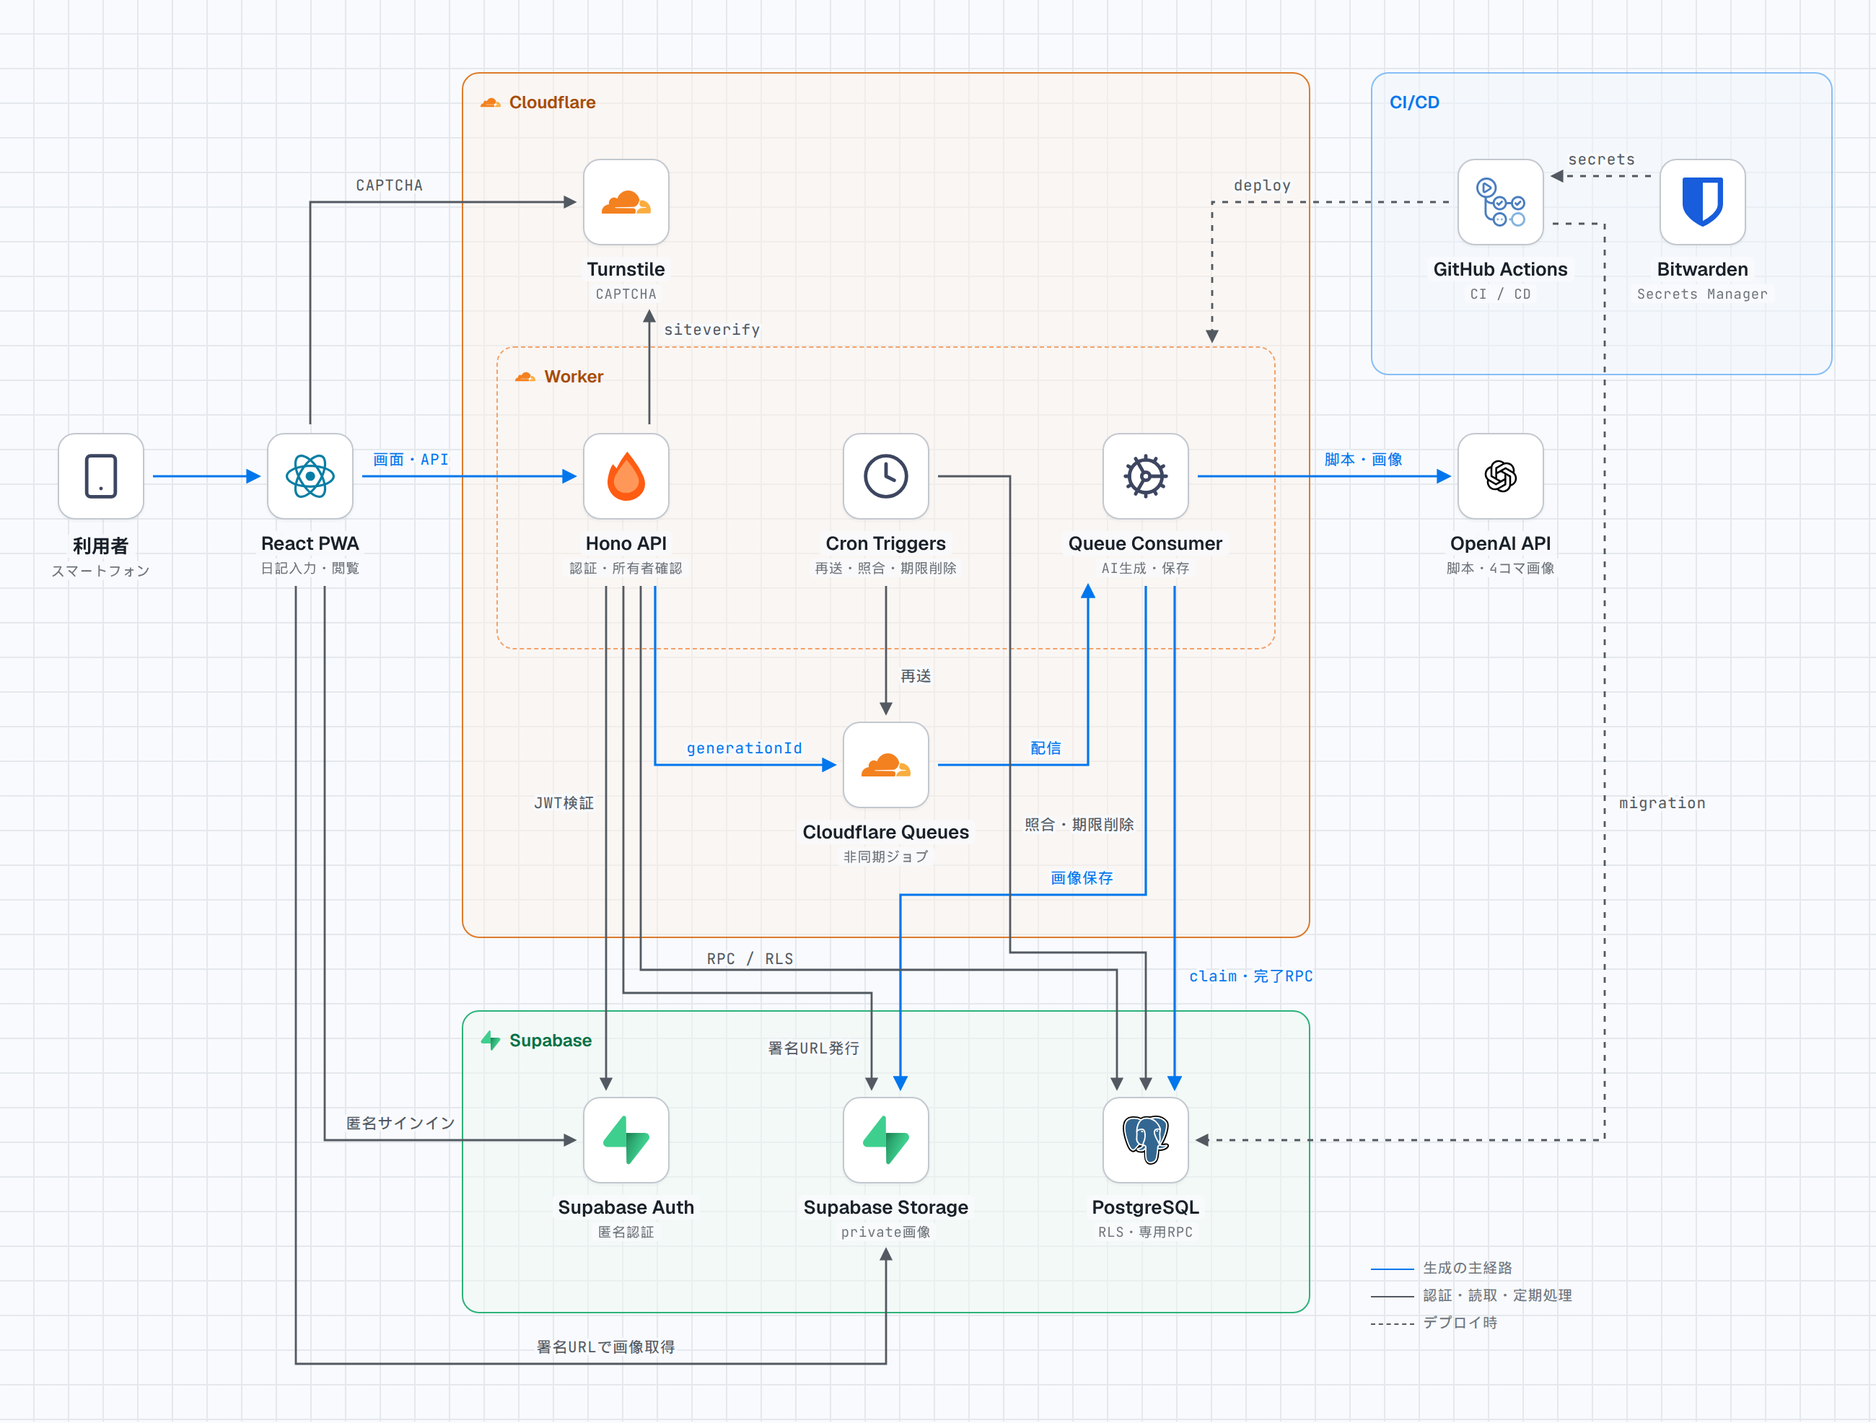
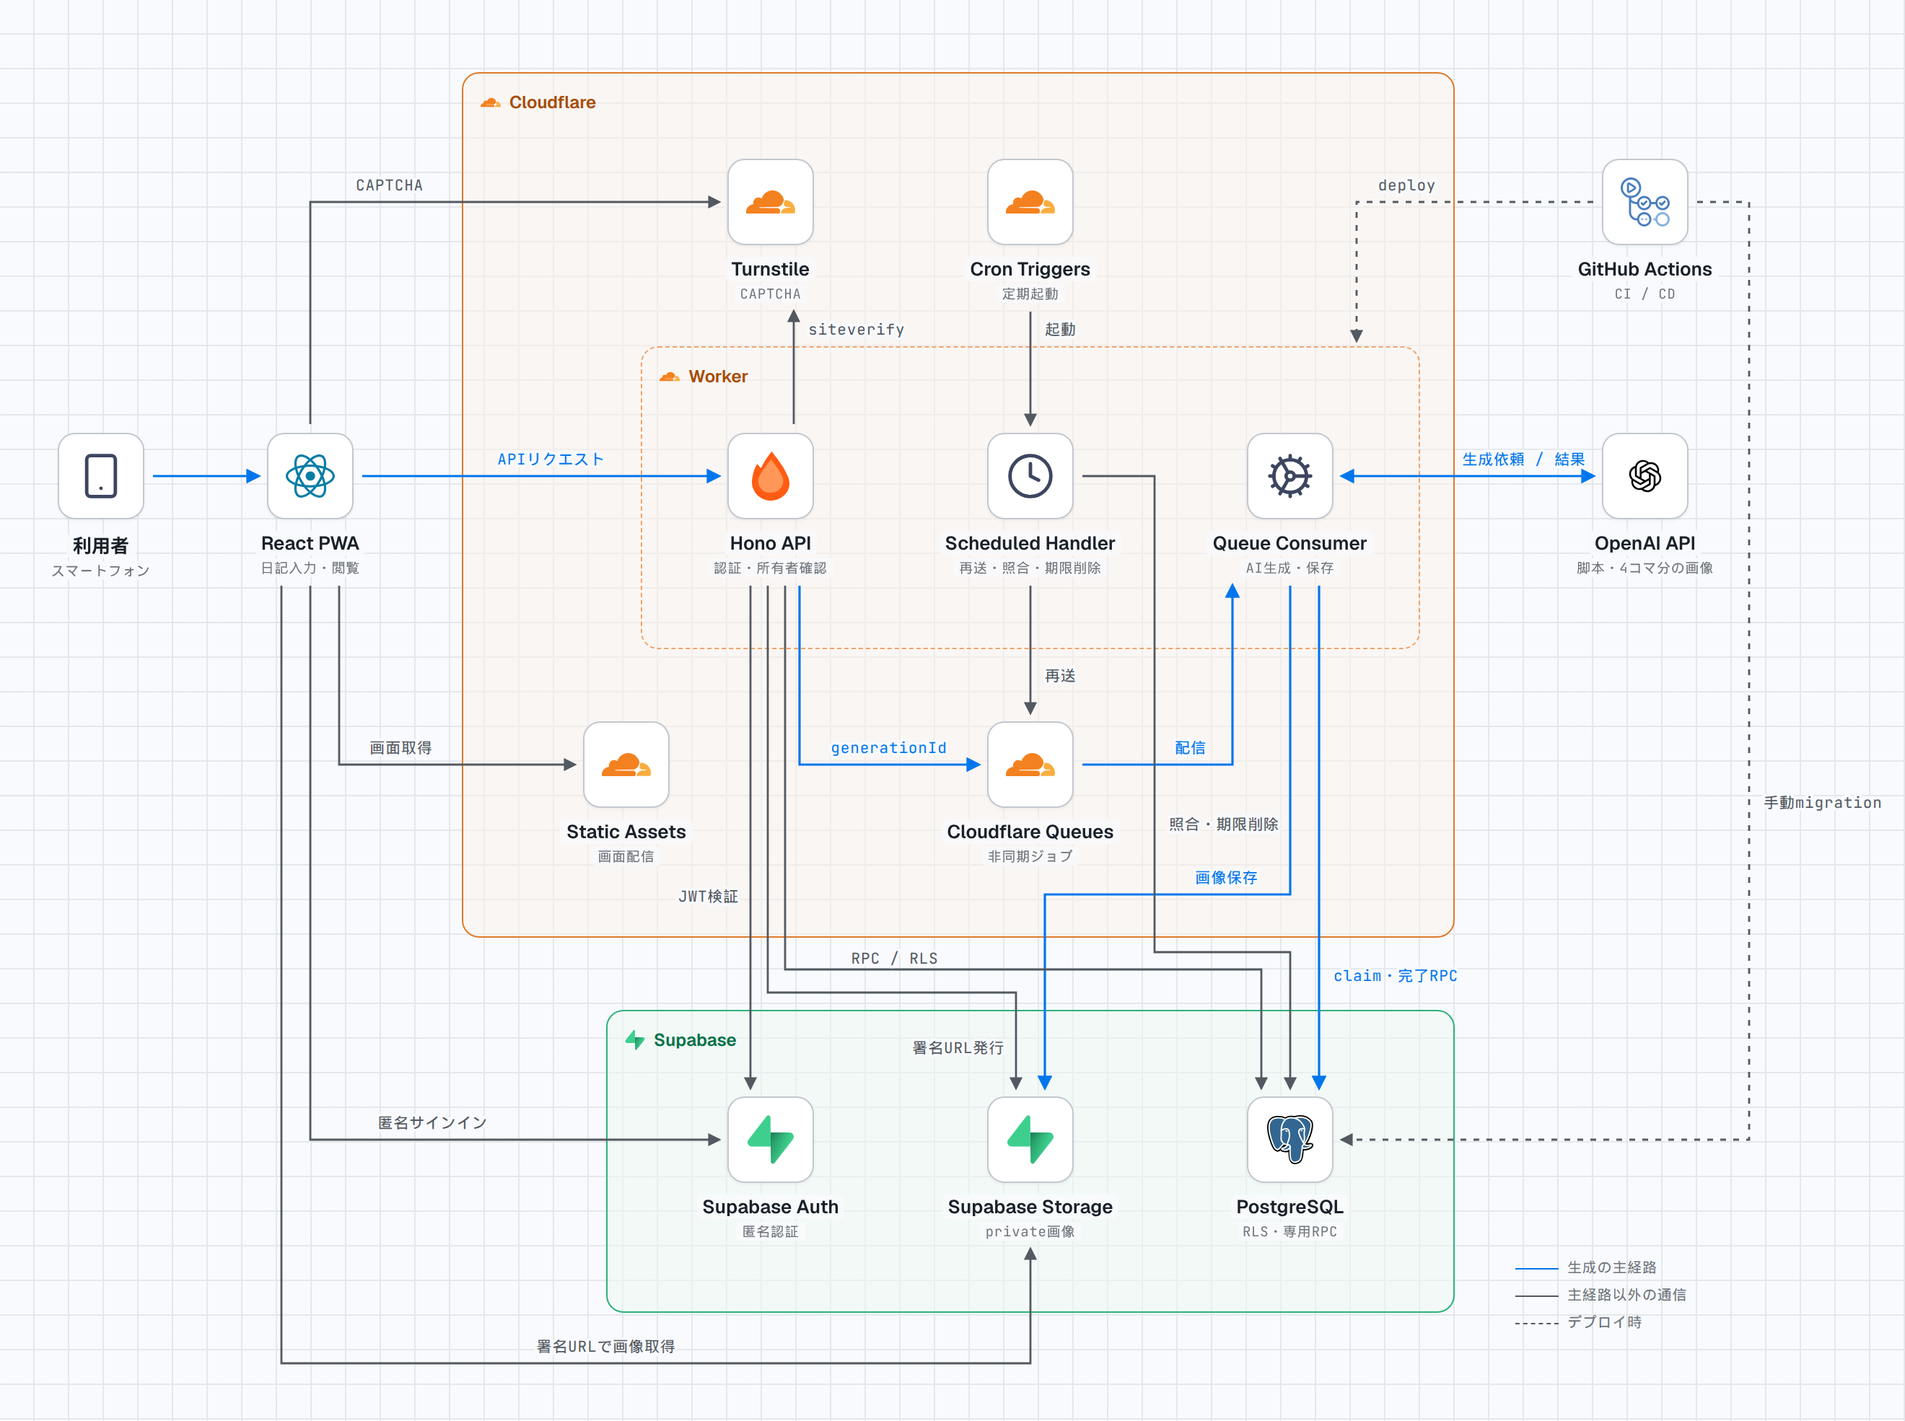
docs: レビューを反映しアーキテクチャ図を修正

diff --git a/docs/diagrams/architecture.html b/docs/diagrams/architecture.html
@@ -116,7 +116,7 @@ h1 { font-family: var(--font-display); font-weight: 700; font-size: clamp(22px, 
 
 .scroller { overflow-x: auto; border: 1px solid var(--color-rule-2); border-radius: var(--radius-card); }
 /* CANVAS SIZE: set width/height here AND on svg.edges AND its viewBox — keep the three in sync */
-.canvas { position: relative; width: 1300px; height: 985px; background: var(--color-paper);
+.canvas { position: relative; width: 1320px; height: 985px; background: var(--color-paper);
   background-image:
     linear-gradient(var(--color-rule) 1px, transparent 1px),
     linear-gradient(90deg, var(--color-rule) 1px, transparent 1px);
@@ -142,7 +142,7 @@ h1 { font-family: var(--font-display); font-weight: 700; font-size: clamp(22px, 
 .group.gb > .g-label { color: var(--color-accent); }
 .group.gc { border:1.5px solid var(--color-g2); background: var(--color-g2-tint); }
 .group.gc > .g-label { color: var(--color-g2-ink); }
-.legend.in-canvas { position:absolute; left:950px; top:872px; margin:0; flex-direction:column; align-items:flex-start; gap:6px; }
+.legend.in-canvas { position:absolute; left:1050px; top:872px; margin:0; flex-direction:column; align-items:flex-start; gap:6px; }
 .group.aws { border:1.5px solid var(--color-ink); border-radius:0; }
 .group.aws > .g-label { top:-1.5px; left:-1.5px; gap:8px; color: var(--color-ink); }
 .group.aws > .g-label img { width:30px; height:30px; }
@@ -182,7 +182,7 @@ h1 { font-family: var(--font-display); font-weight: 700; font-size: clamp(22px, 
 .node .name span, .node .role span { background: var(--color-veil); backdrop-filter: blur(1.5px);
   padding: 0 var(--space-xs); border-radius: 3px; -webkit-box-decoration-break: clone; box-decoration-break: clone; }
 
-svg.edges { position:absolute; inset:0; width: 1300px; height: 985px; pointer-events:none; }
+svg.edges { position:absolute; inset:0; width: 1320px; height: 985px; pointer-events:none; }
 .e  { stroke: var(--color-accent); stroke-width:1.6; fill:none; }   /* primary flow */
 .n  { stroke: var(--color-neutral); stroke-width:1.4; fill:none; }  /* internal */
 path.aws { stroke: var(--color-ink); stroke-width:1.6; fill:none; }
@@ -213,28 +213,25 @@ path.aws { stroke: var(--color-ink); stroke-width:1.6; fill:none; }
       <div class="kicker">manga-nikki / 2026-11</div>
       <h1>漫画日記のシステム構成</h1>
     </div>
-    <p class="lede">画面配信・API・Queue Consumer・Cronは1つのWorkerで動きます。生成はQueueで非同期に実行し、画像はprivate Storageへ保存します。</p>
+    <p class="lede">生成はQueueで非同期に実行し、画像はprivate Storageへ保存します。</p>
   </header>
 
   <div class="scroller">
   <div class="canvas">
 
     <!-- GROUPS -->
-    <div class="group ga" style="left:320px; top:50px; width:588px; height:600px;">
+    <div class="group ga" style="left:320px; top:50px; width:688px; height:600px;">
[1 lines of base64/hex data omitted]
     </div>
-    <div class="group ga-nested" style="left:344px; top:240px; width:540px; height:210px;">
+    <div class="group ga-nested" style="left:444px; top:240px; width:540px; height:210px;">
[1 lines of base64/hex data omitted]
     </div>
-    <div class="group gc" style="left:320px; top:700px; width:588px; height:210px;">
+    <div class="group gc" style="left:420px; top:700px; width:588px; height:210px;">
[1 lines of base64/hex data omitted]
-    </div>
-    <div class="group gb" style="left:950px; top:50px; width:320px; height:210px;">
-      <div class="g-label">CI/CD</div>
     </div>
 
     <!-- EDGES ============================================================= -->
-    <svg class="edges" viewBox="0 0 1300 985" aria-hidden="true">
+    <svg class="edges" viewBox="0 0 1320 985" aria-hidden="true">
       <defs>
         <!-- context-stroke inherits the line's color, so theme switches (incl. dark)
              recolor arrowheads automatically. #open is for AWS diagrams -->
@@ -246,42 +243,44 @@ path.aws { stroke: var(--color-ink); stroke-width:1.6; fill:none; }
         </marker>
       </defs>
       <path class="e" d="M106 330 H179" marker-end="url(#ar)"/>
-      <path class="e" d="M251 330 H398" marker-end="url(#ar)"/>
-      <text class="el a" x="285" y="322" text-anchor="middle">画面・API</text>
-      <path class="e" d="M454 406 V530 H578" marker-end="url(#ar)"/>
-      <text class="el a" x="516" y="522" text-anchor="middle">generationId</text>
-      <path class="e" d="M650 530 H754 V406" marker-end="url(#ar)"/>
-      <text class="el a" x="725" y="522" text-anchor="middle">配信</text>
-      <path class="e" d="M830 330 H1004" marker-end="url(#ar)"/>
-      <text class="el a" x="945" y="322" text-anchor="middle">脚本・画像</text>
-      <path class="e" d="M794 406 V620 H624 V754" marker-end="url(#ar)"/>
-      <text class="el a" x="750" y="612" text-anchor="middle">画像保存</text>
-      <path class="e" d="M814 406 V754" marker-end="url(#ar)"/>
-      <text class="el a" x="824" y="680" text-anchor="start">claim・完了RPC</text>
-      <path class="n" d="M215 294 V140 H398" marker-end="url(#ar)"/>
+      <path class="e" d="M251 330 H498" marker-end="url(#ar)"/>
+      <text class="el a" x="382" y="322" text-anchor="middle">APIリクエスト</text>
+      <path class="e" d="M554 406 V530 H678" marker-end="url(#ar)"/>
+      <text class="el a" x="616" y="522" text-anchor="middle">generationId</text>
+      <path class="e" d="M750 530 H854 V406" marker-end="url(#ar)"/>
+      <text class="el a" x="825" y="522" text-anchor="middle">配信</text>
+      <path class="e" d="M930 330 H1104" marker-start="url(#ar)" marker-end="url(#ar)"/>
+      <text class="el a" x="1056" y="322" text-anchor="middle">生成依頼 / 結果</text>
+      <path class="e" d="M894 406 V620 H724 V754" marker-end="url(#ar)"/>
+      <text class="el a" x="850" y="612" text-anchor="middle">画像保存</text>
+      <path class="e" d="M914 406 V754" marker-end="url(#ar)"/>
+      <text class="el a" x="924" y="680" text-anchor="start">claim・完了RPC</text>
+      <path class="n" d="M235 406 V530 H398" marker-end="url(#ar)"/>
+      <text class="el" x="278" y="522" text-anchor="middle">画面取得</text>
+      <path class="n" d="M215 294 V140 H498" marker-end="url(#ar)"/>
       <text class="el" x="270" y="132" text-anchor="middle">CAPTCHA</text>
-      <path class="n" d="M450 294 V216" marker-end="url(#ar)"/>
-      <text class="el" x="460" y="232" text-anchor="start">siteverify</text>
-      <path class="n" d="M225 406 V790 H398" marker-end="url(#ar)"/>
-      <text class="el" x="278" y="782" text-anchor="middle">匿名サインイン</text>
-      <path class="n" d="M205 406 V945 H614 V866" marker-end="url(#ar)"/>
+      <path class="n" d="M550 294 V216" marker-end="url(#ar)"/>
+      <text class="el" x="560" y="232" text-anchor="start">siteverify</text>
+      <path class="n" d="M714 216 V294" marker-end="url(#ar)"/>
+      <text class="el" x="724" y="232" text-anchor="start">起動</text>
+      <path class="n" d="M215 406 V790 H498" marker-end="url(#ar)"/>
+      <text class="el" x="300" y="782" text-anchor="middle">匿名サインイン</text>
+      <path class="n" d="M195 406 V945 H714 V866" marker-end="url(#ar)"/>
       <text class="el" x="420" y="937" text-anchor="middle">署名URLで画像取得</text>
-      <path class="n" d="M420 406 V754" marker-end="url(#ar)"/>
-      <text class="el" x="412" y="560" text-anchor="end">JWT検証</text>
-      <path class="n" d="M444 406 V672 H774 V754" marker-end="url(#ar)"/>
-      <text class="el" x="520" y="668" text-anchor="middle">RPC / RLS</text>
-      <path class="n" d="M432 406 V688 H604 V754" marker-end="url(#ar)"/>
-      <text class="el" x="596" y="730" text-anchor="end">署名URL発行</text>
-      <path class="n" d="M614 406 V494" marker-end="url(#ar)"/>
-      <text class="el" x="624" y="472" text-anchor="start">再送</text>
-      <path class="n" d="M650 330 H700 V660 H794 V754" marker-end="url(#ar)"/>
-      <text class="el" x="710" y="575" text-anchor="start">照合・期限削除</text>
-      <path class="n dash" d="M1004 140 H840 V236" marker-end="url(#ar)"/>
-      <text class="el" x="875" y="132" text-anchor="middle">deploy</text>
-      <path class="n dash" d="M1076 155 H1112 V790 H830" marker-end="url(#ar)"/>
-      <text class="el" x="1122" y="560" text-anchor="start">migration</text>
-      <path class="n dash" d="M1144 122 H1076" marker-end="url(#ar)"/>
-      <text class="el" x="1110" y="114" text-anchor="middle">secrets</text>
+      <path class="n" d="M520 406 V754" marker-end="url(#ar)"/>
+      <text class="el" x="512" y="625" text-anchor="end">JWT検証</text>
+      <path class="n" d="M544 406 V672 H874 V754" marker-end="url(#ar)"/>
+      <text class="el" x="620" y="668" text-anchor="middle">RPC / RLS</text>
+      <path class="n" d="M532 406 V688 H704 V754" marker-end="url(#ar)"/>
+      <text class="el" x="696" y="730" text-anchor="end">署名URL発行</text>
+      <path class="n" d="M714 406 V494" marker-end="url(#ar)"/>
+      <text class="el" x="724" y="472" text-anchor="start">再送</text>
+      <path class="n" d="M750 330 H800 V660 H894 V754" marker-end="url(#ar)"/>
+      <text class="el" x="810" y="575" text-anchor="start">照合・期限削除</text>
+      <path class="n dash" d="M1104 140 H940 V236" marker-end="url(#ar)"/>
+      <text class="el" x="975" y="132" text-anchor="middle">deploy</text>
+      <path class="n dash" d="M1176 140 H1212 V790 H930" marker-end="url(#ar)"/>
+      <text class="el" x="1222" y="560" text-anchor="start">手動migration</text>
     </svg>
 
     <!-- NODES -->
@@ -293,54 +292,58 @@ path.aws { stroke: var(--color-ink); stroke-width:1.6; fill:none; }
[1 lines of base64/hex data omitted]
       <div class="name"><span>React PWA</span></div><div class="role"><span>日記入力・閲覧</span></div>
     </div>
-    <div class="node" style="left:368px;top:110px">
+    <div class="node" style="left:468px;top:110px">
[1 lines of base64/hex data omitted]
       <div class="name"><span>Turnstile</span></div><div class="role"><span>CAPTCHA</span></div>
     </div>
-    <div class="node" style="left:368px;top:300px">
+    <div class="node" style="left:648px;top:110px">
[1 lines of base64/hex data omitted]
+      <div class="name"><span>Cron Triggers</span></div><div class="role"><span>定期起動</span></div>
+    </div>
+    <div class="node" style="left:468px;top:300px">
[1 lines of base64/hex data omitted]
       <div class="name"><span>Hono API</span></div><div class="role"><span>認証・所有者確認</span></div>
     </div>
-    <div class="node" style="left:548px;top:300px">
+    <div class="node" style="left:648px;top:300px">
[1 lines of base64/hex data omitted]
-      <div class="name"><span>Cron Triggers</span></div><div class="role"><span>再送・照合・期限削除</span></div>
+      <div class="name"><span>Scheduled Handler</span></div><div class="role"><span>再送・照合・期限削除</span></div>
     </div>
-    <div class="node" style="left:728px;top:300px">
+    <div class="node" style="left:828px;top:300px">
[1 lines of base64/hex data omitted]
       <div class="name"><span>Queue Consumer</span></div><div class="role"><span>AI生成・保存</span></div>
     </div>
-    <div class="node" style="left:548px;top:500px">
+    <div class="node" style="left:368px;top:500px">
[1 lines of base64/hex data omitted]
+      <div class="name"><span>Static Assets</span></div><div class="role"><span>画面配信</span></div>
+    </div>
+    <div class="node" style="left:648px;top:500px">
[1 lines of base64/hex data omitted]
       <div class="name"><span>Cloudflare Queues</span></div><div class="role"><span>非同期ジョブ</span></div>
     </div>
-    <div class="node" style="left:368px;top:760px">
+    <div class="node" style="left:468px;top:760px">
[1 lines of base64/hex data omitted]
       <div class="name"><span>Supabase Auth</span></div><div class="role"><span>匿名認証</span></div>
     </div>
-    <div class="node" style="left:548px;top:760px">
+    <div class="node" style="left:648px;top:760px">
[1 lines of base64/hex data omitted]
       <div class="name"><span>Supabase Storage</span></div><div class="role"><span>private画像</span></div>
     </div>
-    <div class="node" style="left:728px;top:760px">
+    <div class="node" style="left:828px;top:760px">
[1 lines of base64/hex data omitted]
       <div class="name"><span>PostgreSQL</span></div><div class="role"><span>RLS・専用RPC</span></div>
     </div>
-    <div class="node" style="left:974px;top:300px">
+    <div class="node" style="left:1074px;top:300px">
[1 lines of base64/hex data omitted]
-      <div class="name"><span>OpenAI API</span></div><div class="role"><span>脚本・4コマ画像</span></div>
+      <div class="name"><span>OpenAI API</span></div><div class="role"><span>脚本・4コマ分の画像</span></div>
     </div>
-    <div class="node" style="left:974px;top:110px">
+    <div class="node" style="left:1074px;top:110px">
[1 lines of base64/hex data omitted]
       <div class="name"><span>GitHub Actions</span></div><div class="role"><span>CI / CD</span></div>
-    </div>
-    <div class="node" style="left:1114px;top:110px">
[1 lines of base64/hex data omitted]
-      <div class="name"><span>Bitwarden</span></div><div class="role"><span>Secrets Manager</span></div>
     </div>
 
     <div class="legend in-canvas">
       <span><span class="sw"></span>生成の主経路</span>
-      <span><span class="sw n"></span>認証・読取・定期処理</span>
+      <span><span class="sw n"></span>主経路以外の通信</span>
       <span><span class="sw n dash"></span>デプロイ時</span>
     </div>
   </div>

diff --git a/docs/diagrams/README.md b/docs/diagrams/README.md
@@ -7,12 +7,16 @@
 利用者のスマートフォンから、Cloudflare Workerでの受付、Queueを介した非同期生成、OpenAIの呼び出し、Supabaseへの保存までを1枚に示します。
 
 - 青い実線：日記から漫画を生成する主経路
-- 灰色の実線：認証、読み取り、署名URL、定期処理
-- 灰色の破線：デプロイ時の関係
+- 灰色の実線：画面取得、認証、読み取り、署名URL、定期処理
+- 灰色の破線：デプロイと手動実行のmigration
 
 ## 図の読み方
 
-画面配信、Hono API、Queue Consumer、Cronは1つのWorkerで動きます。図では役割ごとにノードを分け、`Worker`の枠で同一デプロイであることを示しています。画面の静的ファイルはWorkerのassetsから配信し、`/api/*`だけをHonoへ渡します。
+図はQueueとOpenAIの実生成を有効にした構成を示します。Hono API、Queue Consumer、Scheduled Handlerは1つのWorkerのハンドラーです。Cron Triggersは外側からScheduled Handlerを起動します。
+
+画面の静的ファイルはStatic Assetsが配信し、`/api/*`だけをHonoへ渡します。Static AssetsはWorkerと同じデプロイに含まれますが、Honoを経由しないため`Worker`の枠の外に描いています。
+
+OpenAIはConsumerから呼び出し、脚本と4コマ分の画像を別々に生成して結果を受け取ります。DB migrationはGitHub Actionsの手動実行で、デプロイのたびには適用されません。
 
 ブラウザからSupabaseへ直接通信するのは、匿名サインインと署名URLでの画像取得です。日記の読み書きや生成枠の予約はHono APIを経由し、読み取りは利用者JWTとRLS、書き込みはサーバー専用RPCを使います。
 
@@ -23,7 +27,7 @@
 - CronからStorageへの期限削除の通信
 - Workerの動作モードと、生成を有効にする条件
 - stagingなど環境ごとの差分
-- Bitwarden以外の秘密情報の配置
+- 秘密情報の管理
 
 環境別の構成は[ARCHITECTURE](../ARCHITECTURE.md)、[PRODUCTION_DEPLOYMENT](https://github.com/tossyhal/manga-nikki/blob/develop/docs/PRODUCTION_DEPLOYMENT.md)を参照してください。
 
@@ -45,14 +49,14 @@ uv run --no-project --with playwright==1.64.1 python \
 
 ## 構成の参照元
 
-参照コミットは`origin/develop`の`5929b65`です。主な照合先は`wrangler.jsonc`、`src/server/index.ts`、`src/server/live-generations.ts`、`src/server/generation-queue.ts`、`src/server/scheduled-handler.ts`、`src/client/lib/auth.ts`、`src/build/production-connected-deployment.ts`、`.github/workflows/ci.yml`、`.github/workflows/database-migrate.yml`です。
+参照コミットは`origin/develop`の`5929b65`です。主な照合先は`wrangler.jsonc`、`src/server/index.ts`、`src/server/live-generations.ts`、`src/server/generation-queue.ts`、`src/server/scheduled-handler.ts`、`src/client/lib/auth.ts`、`src/build/production-connected-deployment.ts`、`.github/workflows/ci.yml`、`.github/workflows/database-migrate.yml`、`docs/PRODUCTION_DEPLOYMENT.md`です。
 
 ## 出典とライセンス
 
 - テンプレートと描画：[caru-ini/stack-diagram](https://github.com/caru-ini/stack-diagram/tree/1ed53e3e9525364ae5d82e0430f2bb3f7ef4c838/skills/stack-diagram)、[MITライセンス](licenses/stack-diagram.txt)
-- React、Hono、Cloudflare、Supabase、PostgreSQL、OpenAI、Bitwardenのロゴ：[svgl](https://svgl.app/)
+- React、Hono、Cloudflare、Supabase、PostgreSQL、OpenAIのロゴ：[svgl](https://svgl.app/)
 - GitHub Actionsのロゴ：[gilbarbara/logos](https://github.com/gilbarbara/logos)
-- 利用者、Cron、Consumerの図記号：[Lucide](https://lucide.dev/)、[ISCライセンス](licenses/lucide.txt)
+- 利用者、Scheduled Handler、Consumerの図記号：[Lucide](https://lucide.dev/)、[ISCライセンス](licenses/lucide.txt)
 - 埋め込みフォント：[GeistのOFL](licenses/OFL-Geist.txt)、[JetBrains MonoのOFL](licenses/OFL-JetBrainsMono.txt)
 
 各ロゴの権利は各所有者に帰属します。
